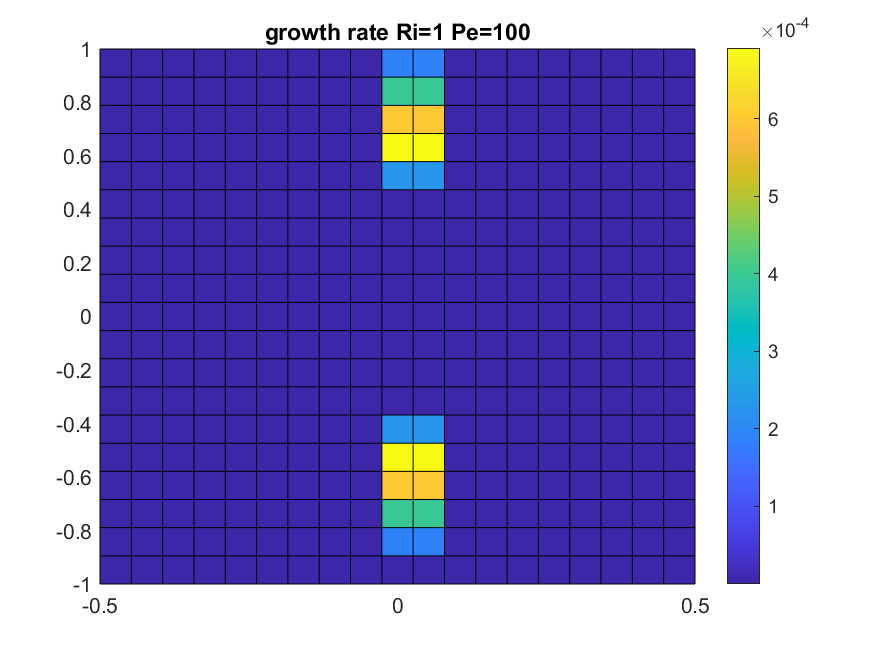
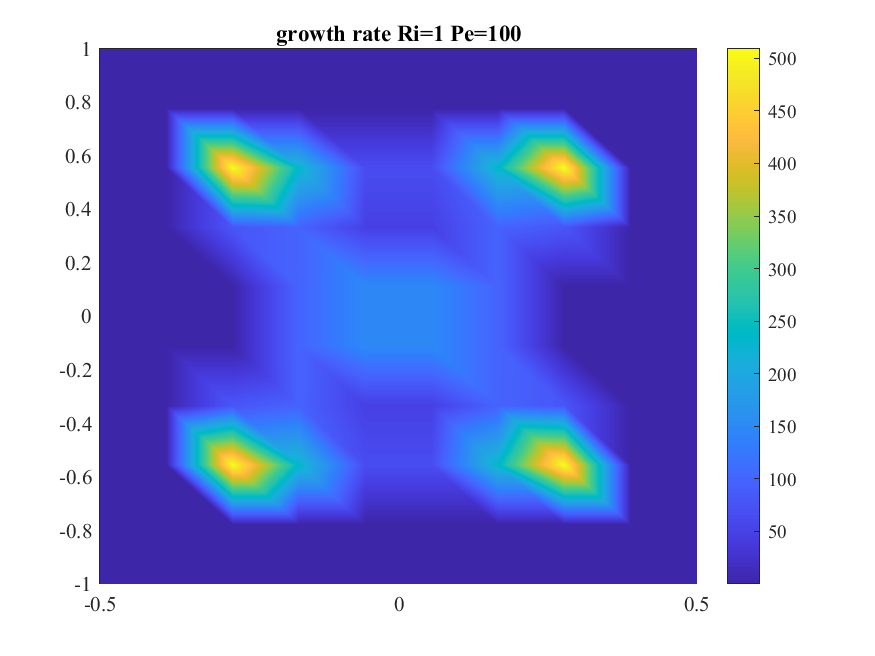
update 2024/08/14

diff --git a/reproduce_refs/linear_stability_analysis/growth_rate_.m b/reproduce_refs/linear_stability_analysis/growth_rate_.m
@@ -1,31 +1,19 @@
 clear all;
 close all;
 clc;
-
+set(0, 'DefaultAxesFontName', 'Times New Roman');
+set(0, 'defaultTextFontName', 'Times New Roman');
 
 % define paramesters [figure 7b]
 Ri_list = [1., 10.]; % Richardson number
 Pe_list = [1e4, 1e2]; % Peclet number
 
 Rp = 2.; % density ratio
-Pr = 10.; % Prandtl number
 tau = 0.01; % diffusivity ratio
 
-k_list=linspace(-0.5,0.5,200);
-l_list=linspace(-1,1,200);
+k_list=linspace(-0.5,0.5,10);
+l_list=linspace(-1,1,10);
 
-
-N = 128;
-I=eye(N,N);
-O=zeros(N,N);
-
-% Differentiation Matrices 
-[z, D1] = fourdif(N, 1);
-[z2, D2] = fourdif(N, 2);
-
-zmin = 0.;
-zmax = 1.;
-z = zmin+(1./(2.*pi))*(zmax-zmin)*z;
 
 for Ri_index=1:length(Ri_list)
      Ri=Ri_list(Ri_index);
@@ -40,34 +28,8 @@ for Ri_index=1:length(Ri_list)
                for l_index=1:length(l_list)
                     l=l_list(l_index);
                     
-                    % compute A
-                    A = [I, O, O, O, O, O;
-                         O, I, O, O, O, O;
-                         O, O, I, O, O, O;
-                         O, O, O, O, O, O;
-                         O, O, O, O, I, O;
-                         O, O, O, O, O, I];
-
-                    % compute B
-                    DX = 1i*k*I;
-                    DY = 1i*l*I;
-                    DZ = D1;
-                    Laplacian = -(k^2+l^2)*I + D2;
-                    M = diag(-sin(2*pi*z))*DX + (Pr/Pe)*Laplacian;
-                    N = diag(-sin(2*pi*z))*DX + (1./Pe)*Laplacian;
-                    K = diag(-sin(2*pi*z))*DX + (tau/Pe)*Laplacian;
-                    DU = diag(-2*pi*cos(2*pi*z))*I;
-                    G = (4.*pi*pi*Ri/(Rp-1.))*I;
-
-                    B = [M, O,DU,-DX, O, O;
-                         O, M, O,-DY, O, O;
-                         O, O, M,-DZ, G,-G;
-                        DX,DY,DZ,  O, O, O;
-                         O, O, I,  O, N, O;
-                         O, O,Rp*I,O, O, K];
-                    
                     % compute eigenvalues
-                    [eig_vec, eig_val] = eig(A,B);
+                    [eig_vec,eig_val] = eig_Radko2016(Ri,Pe,Rp,tau,k,l);
 
                     % compute growth rate
                     GR(k_index,l_index)=max(real(diag(eig_val)));

diff --git a/reproduce_refs/linear_stability_analysis/eig_Radko2016.m b/reproduce_refs/linear_stability_analysis/eig_Radko2016.m
@@ -1,0 +1,50 @@
+function [eigenvector,eigenvalue] = eig_Radko2016(Ri,Pe,Rp,tau,kx,ky)
+     % This function computes eigenvalues of equations in Radko2016's paper 
+     % "Thermohaline layering in dynamically and diffusively stable shear flows"
+     %
+     % Define input paramesters:
+     % Ri - Richardson number
+     % Pe - Peclet number
+     % Rp - density ratio
+     % tau - diffusivity ratio
+     % kx, ky - horizontal wavenumbers
+     % Define output paramesters:
+     % eigenvalues - output eigenvalues
+     % 
+     % In this function, other parameters are used as
+     Pr = 10.; % Prandtl number
+     
+     N = 128;
+     I=eye(N,N);
+     O=zeros(N,N);
+
+     % Differentiation Matrices 
+     [z1, D1] = fourdif(N, 1);
+     [z, D2] = fourdif(N, 2);
+
+     DX = 1i*kx*I;
+     DY = 1i*ky*I;
+     DZ = D1;
+     Laplacian = -(kx^2+ky^2)*I + D2;
+
+     M = diag(-sin(2*pi*z))*DX + (Pr/Pe)*Laplacian;
+     N = diag(-sin(2*pi*z))*DX + (1./Pe)*Laplacian;
+     K = diag(-sin(2*pi*z))*DX + (tau/Pe)*Laplacian;
+     DU = diag(-2*pi*cos(2*pi*z))*I;
+     G = (4.*pi*pi*Ri / (Rp-1.))*I;
+
+     A = [I, O, O, O, O, O;
+          O, I, O, O, O, O;
+          O, O, I, O, O, O;
+          O, O, O, O, O, O;
+          O, O, O, O, I, O;
+          O, O, O, O, O, I];
+     B = [M, O,DU,-DX, O, O;
+          O, M, O,-DY, O, O;
+          O, O, M,-DZ, G,-G;
+     DX,DY,DZ,  O, O, O;
+          O, O, I,  O, N, O;
+          O, O,Rp*I,O, O, K];
+
+     [eigenvector,eigenvalue] = eig(A,B);
+end

diff --git a/reproduce_refs/linear_stability_analysis/amplifying_mode.m b/reproduce_refs/linear_stability_analysis/amplifying_mode.m
@@ -1,0 +1,35 @@
+clear all;
+close all;
+clc;
+set(0, 'DefaultAxesFontName', 'Times New Roman');
+set(0, 'defaultTextFontName', 'Times New Roman');
+
+% define paramesters
+Ri = 1.; % Richardson number
+Pe = 1e4; % Peclet number
+Rp = 2.; % density ratio
+tau = 0.01; % diffusivity ratio
+kx = 2*pi/2;
+ky = 0;
+
+[eig_vec,eig_val] = eig_Radko2016(Ri,Pe,Rp,tau,kx,ky);
+
+[maxreal,maxindex] = max(real(diag(eig_val)));
+
+x=linspace(0,2*pi/kx,101);
+z=linspace(0,1,101);
+
+% create an array to store values of growth rate
+T = zeros(length(x),length(z));
+for x_index=1:length(x)
+    for z_index=1:length(z)
+        T(x_index,z_index) = real(exp(1i*kx*x(x_index) + 1i*z(z_index))*sum(eig_vec*exp(2*1i*pi*z),"all"));
+    end
+end
+
+
+% plot 
+f = figure;
+pcolor(x,z,T); shading interp;
+colorbar
+saveas(f,'./amplifying_mode_test','png')

diff --git a/reproduce_refs/linear_stability_analysis/eigenvalue_test.m b/reproduce_refs/linear_stability_analysis/eigenvalue_test.m
@@ -1,0 +1,26 @@
+clear all;
+close all;
+clc;
+set(0, 'DefaultAxesFontName', 'Times New Roman');
+set(0, 'defaultTextFontName', 'Times New Roman');
+
+% define paramesters
+Ri = 1.; % Richardson number
+Pe = 1e4; % Peclet number
+Rp = 2.; % density ratio
+tau = 0.01; % diffusivity ratio
+kx = 2*pi/2;
+ky = 0;
+
+[eig_vec,eig_val] = eig_Radko2016(Ri,Pe,Rp,tau,kx,ky);
+
+max(real(diag(eig_val)))
+
+% plot eigenvalues
+f = figure;
+plot(real(eig_val),imag(eig_val),'o');
+line([0 0], ylim,'Color','black');  %x-axis
+line(xlim, [0 0],'Color','black');  %y-axis
+xlabel('real') 
+ylabel('imag') 
+saveas(f,'./eigenvalues_test','png')
